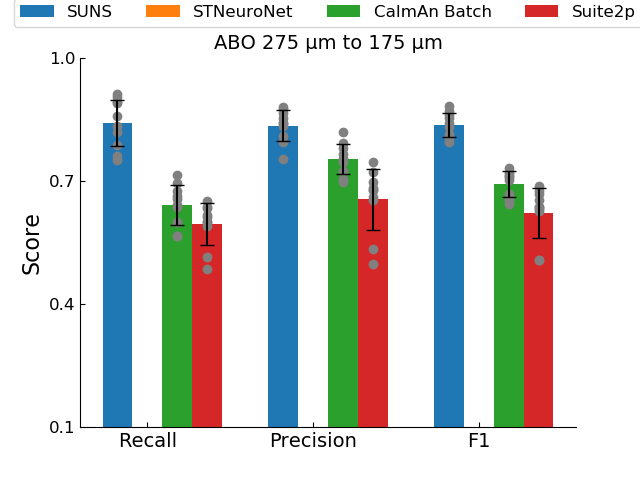
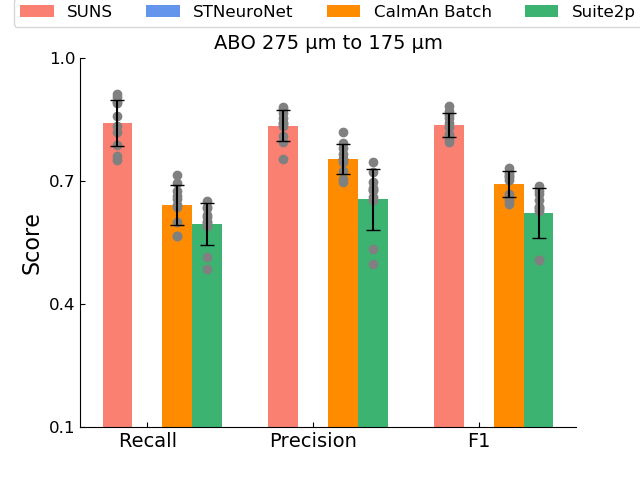
update neurofinder res fig plot successfully with 0401 error

diff --git a/data_zq/output masks all methods_copied/Neurofinder/2_cal_F1_step2.py b/data_zq/output masks all methods_copied/Neurofinder/2_cal_F1_step2.py
@@ -13,13 +13,13 @@ from scipy.io import loadmat
 x_labels = ['Recall', 'Precision', 'F1']
 y_labels = ['SUNS', 'STNeuroNet', 'CaImAn Batch', 'Suite2p']
 # data_type = ['J115', 'J123', 'K53', 'YST']
-data_type = ['J115', 'K53', 'YST']
+data_type = ['train', 'test']
 method_names = ['SUNS noSF output_masks', 'STNeuroNet FinalMasks', 'CaImAn Batch Masks', 'Suite2p Masks']
 
 # 1. get results and cal mean, std
 # from list_Recall, list_Precision, list_F1, we can get a mean value and a std value (error bar), n=6 or n=10
 # we get 4 methods results with a mean and a std value for every method
-n = len(data_type) * 4  # average dataset has 4 train 3 test 1 res
+n = len(data_type) * 6  # average dataset has 4 train 3 test 1 res
 Recall_tmp = np.zeros((len(method_names), n))
 Precision_tmp = np.zeros((len(method_names), n))
 F1_tmp = np.zeros((len(method_names), n))
@@ -33,11 +33,11 @@ for i in range(len(data_type)):
         list_F1 = np.array(mat["list_F1"])
         list_time = np.array(mat["list_time"])
         list_time_frame = np.array(mat["list_time_frame"])
-        Recall_tmp[j, 4 * i:4 * i + 4] = np.squeeze(list_Recall)
-        Precision_tmp[j, 4 * i:4 * i + 4] = np.squeeze(list_Precision)
-        F1_tmp[j, 4 * i:4 * i + 4] = np.squeeze(list_F1)
+        Recall_tmp[j, 6 * i:6 * i + 6] = np.squeeze(list_Recall)
+        Precision_tmp[j, 6 * i:6 * i + 6] = np.squeeze(list_Precision)
+        F1_tmp[j, 6 * i:6 * i + 6] = np.squeeze(list_F1)
 
-# [4, 16] ndarray, 4 methods, 16 data points
+# [4, 12] ndarray, 4 methods, 12 data points
 Recall = np.array(Recall_tmp)
 Precision = np.array(Precision_tmp)
 F1 = np.array(F1_tmp)
@@ -80,7 +80,7 @@ ax.spines['top'].set_visible(False)
 ax.tick_params(direction='in')
 # ax.tick_params(axis='x', direction='in', grid_alpha=0.5)
 
-ax.set_title('CaImAn dataset train 3 test 1', fontsize=fontsize)
+ax.set_title('Neurofinder train 1 test 1', fontsize=fontsize)
 
 # 保存或显示图形
 plt.savefig("2_cal_F1_step2.png")

diff --git a/data_zq/output masks all methods_copied/ABO/175/2_cal_F1_step2.py b/data_zq/output masks all methods_copied/ABO/175/2_cal_F1_step2.py
@@ -52,8 +52,10 @@ F1_std = np.std(F1, axis=1)
 x = np.arange(len(x_labels))
 fig, ax = plt.subplots()
 width = 0.18
+# https://www.matplotlib.net/stable/gallery/color/named_colors.html
+colors = ['salmon', 'cornflowerblue', 'darkorange', 'mediumseagreen']
 for i in range(len(Recall_avg)):
-    ax.bar(x - width + i * width, [Recall_avg[i], Precision_avg[i], F1_avg[i]], width, label=y_labels[i], zorder=1)
+    ax.bar(x - width + i * width, [Recall_avg[i], Precision_avg[i], F1_avg[i]], width, label=y_labels[i], zorder=1, color = colors[i])
     ax.errorbar(x - width + i * width, [Recall_avg[i], Precision_avg[i], F1_avg[i]],
                 yerr=[Recall_std[i], Precision_std[i], F1_std[i]], fmt=',', capsize=5, color='black', zorder=3)
     for j in range(len(Recall[0])):
